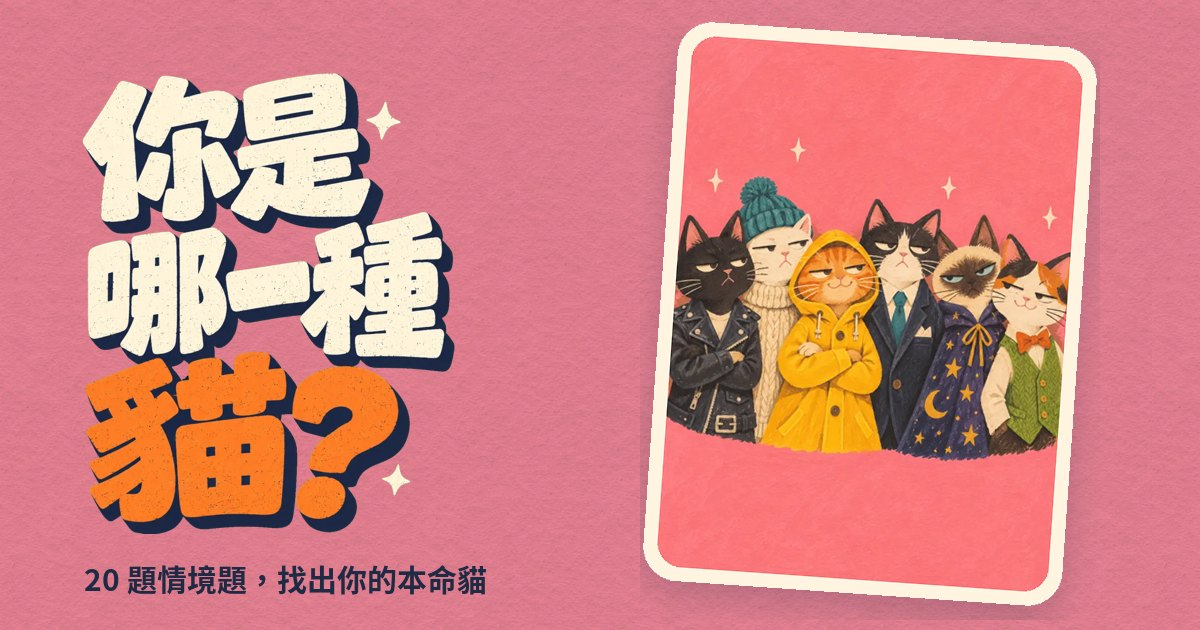
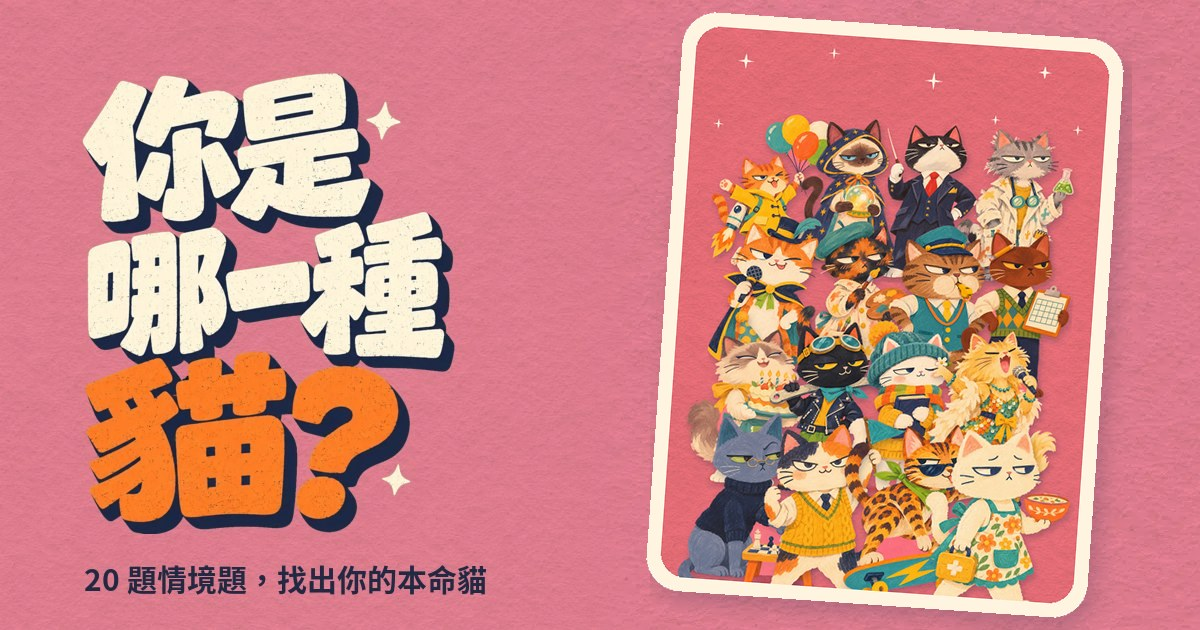
首頁改成 16 隻貓大合照，分享預覽圖同步更新

Changed region(s): [[0.5242, 0.0, 0.9558, 1.0]]

diff --git a/index.html b/index.html
@@ -121,7 +121,7 @@ a { color: inherit; text-decoration: none; }
 .photo img { width: 100%; height: 100%; object-fit: cover; border-radius: 19px; }
 .cover-card { position: absolute; right: 0; bottom: 0; height: 60%; aspect-ratio: 3 / 4; max-width: 74%; }
 .sticker {
-  position: absolute; left: -48px; top: 62%; width: 100px; height: 100px; border-radius: 50%;
+  position: absolute; left: -48px; top: 5%; width: 100px; height: 100px; border-radius: 50%;
   background: var(--mustard); color: var(--navy); display: grid; place-items: center; text-align: center;
   font-weight: 900; font-size: 20px; line-height: 1.15; transform: rotate(-16deg); box-shadow: 0 3px 0 rgba(31, 42, 68, .25);
 }
@@ -790,7 +790,7 @@ a { color: inherit; text-decoration: none; }
       <div class="cover-art">
         <img class="cover-title" src="img/type/title.webp" alt="你是哪一種貓？" data-beat="1" style="--dy:-30px">
         <div class="cover-card" data-beat="1" style="--r:4deg;--dr:8deg;--dy:60px">
-          <div class="photo" style="height:100%"><img src="img/cover.webp" alt="六隻穿著戲服、表情各異的貓擠在一起"></div>
+          <div class="photo" style="height:100%"><img src="img/cover.webp" alt="16 隻穿著戲服、表情各異的貓擠在一起拍合照"></div>
           <div class="sticker" aria-hidden="true">20 題<br>5 分鐘</div>
         </div>
       </div>
